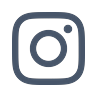
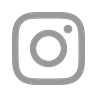
[style] social 아이콘: 색상 #475569→#999999

Changed region(s): [[0.125, 0.125, 0.9062, 0.9062], [0.3125, 0.3125, 0.7188, 0.7188], [0.6562, 0.25, 0.75, 0.3438]]

diff --git a/README.md b/README.md
@@ -32,4 +32,4 @@ https://cdn.jsdelivr.net/gh/SAZO-KR/sazo-email-assets@<commit-sha>/social/social
 
 - SNS 아이콘 (`social/`): [Simple Icons](https://simpleicons.org), CC0 1.0 (Public Domain)
   - 어트리뷰션 의무 없음
-  - 색상은 `#475569` 단색으로 래스터라이즈한 96x96 PNG
+  - 색상은 `#999999`(푸터 텍스트와 동일) 단색으로 래스터라이즈한 96x96 PNG
